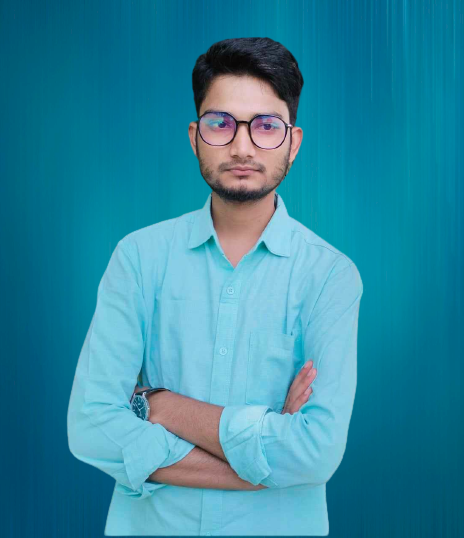
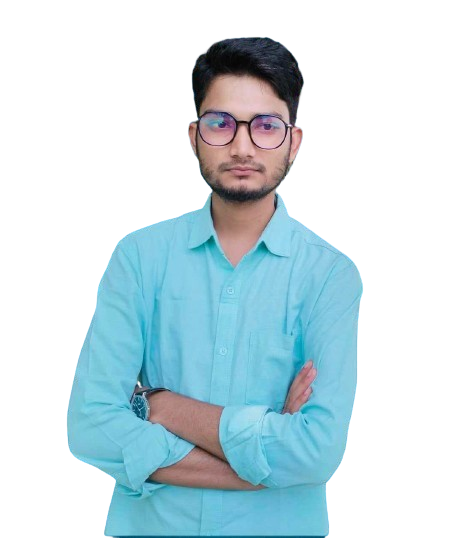
add we are

diff --git a/components/home/Featured.tsx b/components/home/Featured.tsx
@@ -11,25 +11,28 @@ const Featured = () => {
                     <Image src={bgImg} alt='featured' />
                 </div>
                 <div>
-                    <p className='flex gap-3 items-center'>
+                    <div className='flex gap-3 items-center'>
                     <FaCheckDouble className='text-blue-500' />
                     <h2 className='secondary-title'>Design and UX that ensures your app will be loved</h2>
-                    </p>
+                    </div>
                     <p className='py-4'>Lorem ipsum dolor sit amet consectetur adipisicing elit. Sunt fugit ipsa qui delectus labore iusto aliquam nobis harum, illum quibusdam, sed, officiis natus quaerat ratione facere nihil quisquam accusantium consequatur.</p>
-                    <p className='flex gap-3 items-center'>
+
+                    <div className='flex gap-3 items-center'>
                     <FaCheckDouble className='text-blue-500' />
                     <h2 className='secondary-title'>Enterprise-grade development secures reliability and quality</h2>
-                    </p>
+                    </div>
                     <p className='py-4'>Lorem ipsum dolor sit amet consectetur adipisicing elit. Sunt fugit ipsa qui delectus labore iusto aliquam nobis harum, illum quibusdam, sed, officiis natus quaerat ratione facere nihil quisquam accusantium consequatur.</p>
-                    <p className='flex gap-3 items-center'>
+
+                    <div className='flex gap-3 items-center'>
                     <FaCheckDouble className='text-blue-500' />
                     <h2 className='secondary-title'>A proven and tested process guarantees your success</h2>
-                    </p>
+                    </div>
                     <p className='py-4'>Lorem ipsum dolor sit amet consectetur adipisicing elit. Sunt fugit ipsa qui delectus labore iusto aliquam nobis harum, illum quibusdam, sed, officiis natus quaerat ratione facere nihil quisquam accusantium consequatur.</p>
-                    <p className='flex gap-3 items-center'>
+
+                    <div className='flex gap-3 items-center'>
                     <FaCheckDouble className='text-blue-500' />
                     <h2 className='secondary-title'>Start-to-end app development agency</h2>
-                    </p>
+                    </div>
                     <p className='py-4'>Lorem ipsum dolor sit amet consectetur adipisicing elit. Sunt fugit ipsa qui delectus labore iusto aliquam nobis harum, illum quibusdam, sed, officiis natus quaerat ratione facere nihil quisquam accusantium consequatur.</p>
                 </div>
             </div>

diff --git a/components/home/TeamSection.tsx b/components/home/TeamSection.tsx
@@ -1,0 +1,58 @@
+import Image from "next/image";
+import React from "react";
+import myImg from "../../public/mypp.png";
+
+const TeamSection = () => {
+  return (
+    <section className="my-container py-4">
+      <div className="max-w-screen-sm mx-auto text-center">
+        <h2 className="title">We Are</h2>
+        <p>
+          We are two frnds of team for your solution. We can make anyhting for
+          your products..
+        </p>
+      </div>
+      <div className="py-6 grid grid-cols-1 md:grid-cols-2 justify-between gap-4">
+        <div className="team-card">
+          {/* <div className="developer-items">
+            <h2 className="text-xl">Expertise of:</h2>
+            <div className="pt-2 gap-1 flex">
+                <button className="border p-1">JavaScript</button>
+                <button className="border p-1">TypeScript</button>
+                <button className="border p-1">ReactJS</button>
+                <button className="border p-1">NextJS</button>
+                <button className="border p-1">NextJS</button>
+            </div>
+          </div> */}
+          <Image className="h-[250px] w-[180px]" src={myImg} alt="developer" />
+          <div>
+            <h2 className="text-2xl">Full Stack Web Developer</h2>
+            <p>- Ashaduzzaman Sojib</p>
+            <p className="text-gray-300 py-2">
+              Lorem ipsum dolor sit amet consectetur adipisicing elit. Corrupti
+              quia facere consequuntur nihil voluptatum quaerat optio quos
+              doloremque dolor a! Maiores officia officiis maxime ducimus culpa
+              rerum omnis tenetur. Nobis.
+            </p>
+          </div>
+        </div>
+        <div className="team-card">
+          <div className="developer-items"></div>
+          <Image className="h-[250px] w-[200px]" src={myImg} alt="developer" />
+          <div>
+            <h2 className="text-2xl">Full Stack Web Developer</h2>
+            <p>- Ashaduzzaman Sojib</p>
+            <p className="text-gray-300 py-2">
+              Lorem ipsum dolor sit amet consectetur adipisicing elit. Corrupti
+              quia facere consequuntur nihil voluptatum quaerat optio quos
+              doloremque dolor a! Maiores officia officiis maxime ducimus culpa
+              rerum omnis tenetur. Nobis.
+            </p>
+          </div>
+        </div>
+      </div>
+    </section>
+  );
+};
+
+export default TeamSection;

diff --git a/app/globals.css b/app/globals.css
@@ -2,39 +2,41 @@
 @tailwind components;
 @tailwind utilities;
 
-
-.my-container{
-    @apply max-w-[1130px] mx-auto px-2
+.my-container {
+  @apply max-w-[1130px] mx-auto px-2;
 }
-nav{
-    @apply font-medium
+nav {
+  @apply font-medium;
 }
-.hero-btn{
-    @apply px-6 py-2 border border-accent hover:bg-accent hover:text-primary inline-block  hover:tracking-wider duration-500 transition-all rounded-full uppercase
+.hero-btn {
+  @apply px-6 py-2 border border-accent hover:bg-accent hover:text-primary inline-block  hover:tracking-wider duration-500 transition-all rounded-full uppercase;
 }
-.my-btn{
-    @apply px-6 py-2 border border-blue-500 hover:bg-primary hover:text-accent inline-block  hover:tracking-wider duration-500 transition-all rounded-full uppercase
+.my-btn {
+  @apply px-6 py-2 border border-blue-500 hover:bg-primary hover:text-accent inline-block  hover:tracking-wider duration-500 transition-all rounded-full uppercase;
 }
-.nav-link{
-    @apply inline-block px-4 py-2 hover:border-b-2 border-primary uppercase
+.nav-link {
+  @apply inline-block px-4 py-2 hover:border-b-2 border-primary uppercase;
 }
-.hero-container{
-    @apply relative bg-primary bg-opacity-70 text-accent h-[550px]
+.hero-container {
+  @apply relative bg-primary bg-opacity-70 text-accent h-[550px];
 }
-.title{
-    @apply text-2xl font-semibold
+.title {
+  @apply text-2xl font-semibold;
 }
-.hero-bg{
-    object-fit: cover;
-    z-index: -5;
-    border-bottom-right-radius: 70%;
+.hero-bg {
+  object-fit: cover;
+  z-index: -5;
+  border-bottom-right-radius: 70%;
 }
-.secondary-title{
-    @apply font-medium text-xl text-secondary
+.secondary-title {
+  @apply font-medium text-xl text-secondary;
 }
-.service-card{
-    @apply p-6 bg-accent rounded-t-3xl rounded-bl-3xl shadow-sm shadow-slate-300
+.service-card {
+  @apply p-6 bg-accent rounded-t-3xl rounded-bl-3xl shadow-sm shadow-slate-300;
 }
 .service-card:hover {
-    @apply bg-gradient-to-bl text-accent from-primary to-secondary transition-all duration-500
+  @apply bg-gradient-to-bl text-accent from-primary to-secondary transition-all duration-500;
+}
+.team-card {
+  @apply flex items-center text-accent border p-4 bg-gradient-to-l from-primary to-secondary relative cursor-pointer;
 }

diff --git a/app/page.tsx b/app/page.tsx
@@ -2,6 +2,7 @@ import HeroSection from "@/components/home/HeroSection";
 import Header from "@/components/shared/Header";
 import Services from "@/components/home/Services";
 import Featured from "@/components/home/Featured";
+import TeamSection from "@/components/home/TeamSection";
 export default function Home() {
   return (
     <main>
@@ -9,6 +10,7 @@ export default function Home() {
       <HeroSection />
       <Services />
       <Featured />
+      <TeamSection />
     </main>
   );
 }
